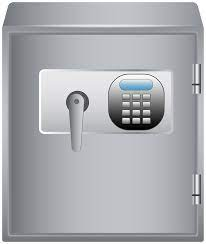
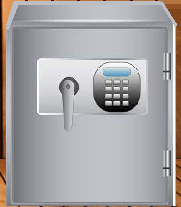
all the images are clickable

diff --git a/client/src/views/LightsView.js b/client/src/views/LightsView.js
@@ -15,12 +15,29 @@ const LightsView = (props) => {
         history.push("/paintings")
     }
 
+    const onClickLightSwitch = (e) => {
+        console.log("you clicked switch!");
+    }
+
+    const onClickLightSafe = (e) => {
+        console.log("you clicked safe!");
+    }
+
+
+
     return(
         <div className="gameWindow position-relative">  
-            <img className="gameBackground" src={require('../img/Wall.jpg')} alt="Lights Wall"/>
-            <img className="position-absolute top-50 start-0 translate-middle-y clickable" src={require('../img/leftArrow.png')} alt='left arrow' onClick={onClickLeftHandler} />
-            <img className="position-absolute top-50 end-0 translate-middle-y clickable" src={require('../img/rightArrow.png')} alt='right arrow' onClick={onClickRightHandler}/>
+            <img className="gameBackground" src={require('../img/Wall.jpg')} alt="Lights Wall" />
+
+            <img className="arrow position-absolute top-50 start-0 translate-middle-y clickable" src={require('../img/leftArrow.png')} alt='left arrow' onClick={onClickLeftHandler} />
+            <img className="arrow position-absolute top-50 end-0 translate-middle-y clickable" src={require('../img/rightArrow.png')} alt='right arrow' onClick={onClickRightHandler}/>
+            <img className="lights position-absolute top-0 end-0 translate-middle-y clickable" src={require('../img/lightSwitches.png')} alt='Light Switches' onClick={onClickLightSwitch} />
+            <img className="safe position-absolute top-50 end-0 translate-middle-y clickable" src={require('../img/safe1.png')} alt='Safe' onClick={onClickLightSafe} />
             <img className="rug position-absolute bottom-0 start-50 translate-middle-x" src={require('../img/rug.png')} alt="rug" />
+            <img className="drawer position-absolute top-50 start-50 translate-middle clickable" src={require('../img/drawer.png')} alt="drawer" />
+            
+            {/* <img className="table position-absolute top-50 start-50 translate-middle" src={require('../img/table.jpg')} alt="table" /> */} 
+            {/* for some reason can't set the width for the table */}
             
         </div>
     )

diff --git a/client/src/views/FrontDoorView.js b/client/src/views/FrontDoorView.js
@@ -28,10 +28,10 @@ const FrontDoorView = (props) => {
     return(
         <div className="gameWindow position-relative">  
             <img className="gameBackground" src={require(props.solvedPuzzle1 ? '../img/DoorWithOpenCabinet.png' : '../img/DoorWithClosedCabinet.png')} alt="Front Door"/>
-            <img className="position-absolute top-50 start-0 translate-middle-y clickable" src={require('../img/leftArrow.png')} alt='left arrow' onClick={onClickLeftHandler} />
-            <img className="position-absolute top-50 end-0 translate-middle-y clickable" src={require('../img/rightArrow.png')} alt='right arrow' onClick={onClickRightHandler}/>
+            <img className="arrow position-absolute top-50 start-0 translate-middle-y clickable" src={require('../img/leftArrow.png')} alt='left arrow' onClick={onClickLeftHandler} />
+            <img className="arrow position-absolute top-50 end-0 translate-middle-y clickable" src={require('../img/rightArrow.png')} alt='right arrow' onClick={onClickRightHandler}/>
             <img className="rug position-absolute bottom-0 start-50 translate-middle-x" src={require('../img/rug.png')} alt="rug" />
-            <img className="lock clickable" src={require("../img/lock.png")} alt="lock" onClick={clickLock}/>
+            <img className="lock position-absolute top-0 start-0 translate-middle-y clickable" src={require("../img/lock.png")} alt="lock" onClick={clickLock}/>
         </div>
     )
 }

diff --git a/client/src/views/BookshelfView.js b/client/src/views/BookshelfView.js
@@ -18,11 +18,12 @@ const BookshelfView = (props) => {
     return(
         <div className="gameWindow position-relative">  
             <img className="gameBackground" src={require('../img/BookShelf.png')} alt="BookShelf"/>
-            <img className="position-absolute top-50 start-0 translate-middle-y clickable" src={require('../img/leftArrow.png')} alt='left arrow' onClick={onClickLeftHandler} />
-            <img className="position-absolute top-50 end-0 translate-middle-y clickable" src={require('../img/rightArrow.png')} alt='right arrow' onClick={onClickRightHandler}/>
+            <img className="arrow position-absolute top-50 start-0 translate-middle-y clickable" src={require('../img/leftArrow.png')} alt='left arrow' onClick={onClickLeftHandler} />
+            <img className="arrow position-absolute top-50 end-0 translate-middle-y clickable" src={require('../img/rightArrow.png')} alt='right arrow' onClick={onClickRightHandler}/>
             <img className="rug position-absolute bottom-0 start-50 translate-middle-x" src={require('../img/rug.png')} alt="rug" />
             <img className="armChair position-absolute top-50 start-50 translate-middle" src={require('../img/armchair.png')} alt="Arm Chair" />
-
+            <img className="book position-absolute top-50 start-0 translate-middle-y clickable" src={require('../img/book.png')} alt="Book" />
+            
         </div>
     )
 }

diff --git a/client/src/views/PaintingView.js b/client/src/views/PaintingView.js
@@ -18,8 +18,8 @@ const BookshelfView = (props) => {
     return(
         <div className="gameWindow position-relative">  
             <img className="gameBackground" src={require('../img/PaintingsWall.png')} alt="Paintings Wall"/>
-            <img className="position-absolute top-50 start-0 translate-middle-y clickable" src={require('../img/leftArrow.png')} alt='left arrow' onClick={onClickLeftHandler} />
-            <img className="position-absolute top-50 end-0 translate-middle-y clickable" src={require('../img/rightArrow.png')} alt='right arrow' onClick={onClickRightHandler}/>
+            <img className="arrow position-absolute top-50 start-0 translate-middle-y clickable" src={require('../img/leftArrow.png')} alt='left arrow' onClick={onClickLeftHandler} />
+            <img className="arrow position-absolute top-50 end-0 translate-middle-y clickable" src={require('../img/rightArrow.png')} alt='right arrow' onClick={onClickRightHandler}/>
             <img className="rug position-absolute bottom-0 start-50 translate-middle-x" src={require('../img/rug.png')} alt="rug" />
             
             {/* NEED a MAP of ARRAY of Paintings. Change index as we click and drop */}

diff --git a/client/src/App.css b/client/src/App.css
@@ -60,14 +60,20 @@ height: 1000px;
   width:100%;
 }
 
+.arrow{
+  width: 10%;
+}
+
 .rug {
   width:75%;
 }
 
 .lock {
-  position: absolute;
-  top: 33%;
-  left:10%;
+  width:10%;
+  display: block;
+  margin-left: 8%;
+  margin-right:auto;
+  margin-top:35%;
 }
 
 .armChair {
@@ -76,6 +82,42 @@ height: 1000px;
   margin-left: auto;
   margin-right:5%;
   margin-top:50px;
+}
+
+.table {
+  /* width: 10%; */
+  display: block;
+  margin-left: auto;
+  margin-right:5%;
+  margin-top:50px;
+}
+
+.drawer {
+  width: 30%;
+}
+
+.lights {
+  width: 29%;
+  display: block;
+  margin-left: auto;
+  margin-right:5%;
+  margin-top:15%;
+}
+
+.safe {
+  width: 22%;
+  display: block;
+  margin-left: auto;
+  margin-right:9%;
+  margin-top:2%;
+
+}
+
+.book{
+  width: 13%;
+  display: block;
+  margin-left: auto;
+  margin-top:11%;
 }
 
 .clickable{

diff --git a/backend/server.js b/backend/server.js
@@ -1,0 +1,12 @@
+const express = require('express');
+const app = express();
+const cors = require('cors');
+app.use(cors());
+const port = 8000;
+app.use(express.json());
+app.use(express.urlencoded({extended: true}));
+require('./server/routes/EscapeRoom.routes')(app); 
+require('./server/config/mongoose.config');
+
+    
+app.listen(port, () => console.log(`Listening on port: ${port}`) );

diff --git a/backend/server/config/mongoose.config.js b/backend/server/config/mongoose.config.js
@@ -1,0 +1,7 @@
+const mongoose = require('mongoose');
+mongoose.connect("mongodb://127.0.0.1/MERNBeltExam", {
+    useNewUrlParser:true, 
+    useUnifiedTopology: true,
+})
+    .then(() => console.log("Established a connection to the database!"))
+    .catch(err => console.log("Something went wrong when connecting to database :(", err));

diff --git a/client/src/App.js b/client/src/App.js
@@ -15,6 +15,7 @@ import BookshelfView from './views/BookshelfView';
 import PaintingView from './views/PaintingView';
 import LightsView from './views/LightsView';
 import 'bootstrap/dist/css/bootstrap.min.css';
+import { motion } from "framer-motion"
 
 function App() {
   const [name, setName] = useState("")

diff --git a/client/src/App.scss b/client/src/App.scss
@@ -1,0 +1,7 @@
+$position-values: (
+    0: 0,
+    25: 25%,
+    50: 50%,
+    75: 75%,
+    100: 100%
+);
